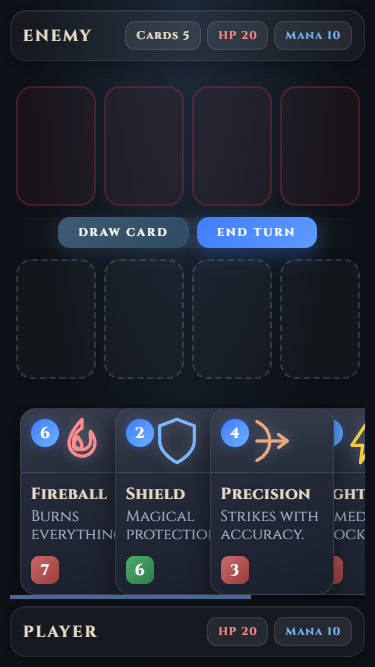
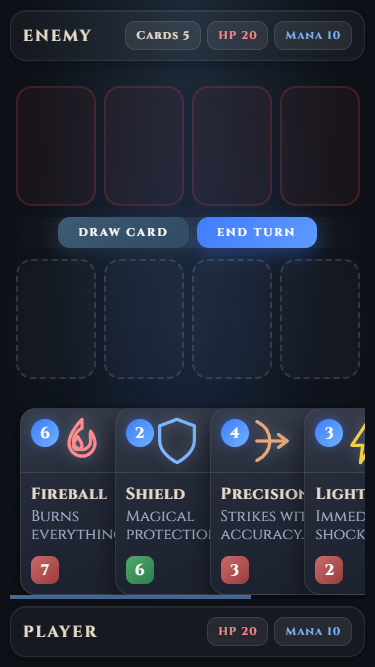
style(ui): add board and slot glow effects

Changed region(s): [[0.792, 0.7196, 0.9093, 0.8996], [0.8213, 0.5997, 0.9093, 0.6897]]

diff --git a/styles.css b/styles.css
@@ -75,6 +75,9 @@
   /* SHADOWS */
   --shadow-box-panel: 0 4px 18px rgba(0, 0, 0, 0.3);
   --shadow-box-panel-highlight: 0 1px 0 rgba(255, 255, 255, 0.05);
+  --shadow-box-slot-hover:
+    0 0 0 3px rgba(255, 255, 255, 0.06),
+    0 6px 20px rgba(255, 255, 255, 0.08);
   --shadow-box-btn-end-turn: 0 6px 18px rgba(63, 124, 255, 0.34);
   --shadow-box-btn-end-turn-hover: 0 7px 20px rgba(63, 124, 255, 0.37);
   --shadow-box-btn-draw: 0 5px 15px rgba(56, 86, 112, 0.32);
@@ -140,6 +143,20 @@ body {
   background: var(--color-bg-arena);
 
   animation: fadeInBg 0.8s ease-out;
+}
+
+body::before {
+  content: "";
+  position: fixed;
+  inset: 0;
+  z-index: 0;
+  pointer-events: none;
+
+  background: radial-gradient(
+    ellipse 70% 60% at 50% 50%,
+    rgba(63, 124, 255, 0.10) 0%,
+    transparent 70%
+  );
 }
 
 @keyframes fadeInBg {
@@ -700,13 +717,17 @@ body {
 @media (hover: hover) { 
   .board__slot:not(.board__slot--inactive):hover {
     transform: translateY(-4px);
-    border-color: var(--color-border-slot-hover);
     background-color: var(--color-bg-slot-hover);
+    border-color: var(--color-border-slot-hover);
+    box-shadow: var(--shadow-box-slot-hover);
   }
 
   .board__slot--inactive:hover {
     background-color: rgba(220, 70, 70, 0.18);
     border-color: rgba(255, 90, 90, 0.55);
+    box-shadow: 
+      0 0 0 3px rgba(220, 70, 70, 0.1),
+      0 6px 20px rgba(220, 70, 70, 0.14);
   }
 
   .button--end-turn:hover:not(:disabled) {